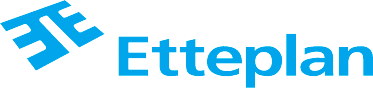
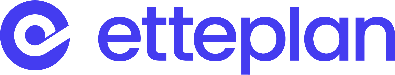
build

diff --git a/docs/service-worker.js b/docs/service-worker.js
@@ -1,1 +1,1 @@
-if(!self.define){let e,s={};const r=(r,i)=>(r=new URL(r+".js",i).href,s[r]||new Promise((s=>{if("document"in self){const e=document.createElement("script");e.src=r,e.onload=s,document.head.appendChild(e)}else e=r,importScripts(r),s()})).then((()=>{let e=s[r];if(!e)throw new Error(`Module ${r} didn’t register its module`);return e})));self.define=(i,n)=>{const o=e||("document"in self?document.currentScript.src:"")||location.href;if(s[o])return;let a={};const c=e=>r(e,o),f={module:{uri:o},exports:a,require:c};s[o]=Promise.all(i.map((e=>f[e]||c(e)))).then((e=>(n(...e),a)))}}define(["./workbox-db5fc017"],(function(e){"use strict";e.setCacheNameDetails({prefix:"robot-framework"}),self.addEventListener("message",(e=>{e.data&&"SKIP_WAITING"===e.data.type&&self.skipWaiting()})),e.precacheAndRoute([{url:"/404.html",revision:"f4e3edb53349945387e617abbd0fd231"},{url:"/CNAME",revision:"b9d1ce36b74077687fa96cd27a1498fa"},{url:"/code/hello-world/keywords.resource",revision:"6cfa3d85c9c3399ff28d5d16951e7a42"},{url:"/code/hello-world/test.robot",revision:"0c283be998710a0b4c72707af3f66bca"},{url:"/css/251.62c85cbe.css",revision:null},{url:"/css/591.17818f9b.css",revision:null},{url:"/css/706.56b2f530.css",revision:null},{url:"/css/app.0a54051d.css",revision:null},{url:"/editor.worker.js",revision:"c32a55f347a96275d8a6d9059c2795a7"},{url:"/example/example.robot",revision:"07d51baeb8298ae3bbe4968fe36bae50"},{url:"/example/log.html",revision:"8805923876cc017f9cdd63be6841955f"},{url:"/example/resource.robot",revision:"27b05d6207e9a2ebffecfc564ea1cbb4"},{url:"/fonts/CourierCode-Bold.5fb0947e.woff",revision:null},{url:"/fonts/CourierCode-Italic.3d7db8fe.woff",revision:null},{url:"/fonts/CourierCode-Roman.9e9c7312.woff",revision:null},{url:"/fonts/OCRA2.ea4aa5c0.woff",revision:null},{url:"/fonts/codicon.d1e7e26c.ttf",revision:null},{url:"/html.worker.js",revision:"b4c801e64dbad5482a140a91a963c0b1"},{url:"/img/Calendar.svg",revision:"8297cf2cf2a9fc56bd612112f636de30"},{url:"/img/Gmail.svg",revision:"9dbc79dab48422c821c75bbfc21165ec"},{url:"/img/RF-white.svg",revision:"5f61873d6ea9fe47b23c09528ee13efd"},{url:"/img/RF.svg",revision:"719774271ca4c3ae003b0d126dbe61b9"},{url:"/img/Slack.svg",revision:"f5fe2f626289d9e83ecc84a66537c631"},{url:"/img/TestCon-banner.png",revision:"35f368300314648d0cac13d302d76e90"},{url:"/img/carousel-company-icons/ABB.svg",revision:"660a75426749f1aeb4bae22bef2c4757"},{url:"/img/carousel-company-icons/Cisco.svg",revision:"6c68e1e0c5fa2dd9a55e77e5efd49382"},{url:"/img/carousel-company-icons/Condé_Nast.svg",revision:"e9bb142c55103dae3e4f2ea3eff28dca"},{url:"/img/carousel-company-icons/Finnair.svg",revision:"e76aacb26c092c3ed28d4b4da1df3448"},{url:"/img/carousel-company-icons/Juniper_Networks.svg",revision:"951b8992fdff194268841e73210ef775"},{url:"/img/carousel-company-icons/Kone.svg",revision:"7dcc5efb197b559a82ef1f7f6bdbef0f"},{url:"/img/carousel-company-icons/Naval_Research_Laboratory.svg",revision:"3b7e5ca1c422df2ad38698fb7fbcbf80"},{url:"/img/carousel-company-icons/Nokia.svg",revision:"f6bf0ff4f4a0afef6a189e6e312d2bf9"},{url:"/img/carousel-company-icons/Vero.svg",revision:"8fd65193ed5fc664766b4b16ed195e97"},{url:"/img/sponsors/abb.png",revision:"0a9db72ee03d319f6e142cfeface2fbd"},{url:"/img/sponsors/aktia.png",revision:"3514f30854191f82482b140c5f075537"},{url:"/img/sponsors/alten.png",revision:"0d5a572056f1b4f9cb4cf29c4f539402"},{url:"/img/sponsors/ams_osram.png",revision:"68bdbd1c0e7b4d8688bb5e922872daff"},{url:"/img/sponsors/arvanto.png",revision:"bf69b37f0e13603a0a35ef9253e17c78"},{url:"/img/sponsors/botlabs.png",revision:"e6ff1102d99f99b3fe44701b3228ab6a"},{url:"/img/sponsors/capgemini.png",revision:"be1579d0ace1098deca10d22477f5df3"},{url:"/img/sponsors/cgi.png",revision:"645e2435cd2154bec4fad0f2cc5ac920"},{url:"/img/sponsors/checkmk.png",revision:"991cab1fb8017421e0a019dd6a5ef039"},{url:"/img/sponsors/cisco.png",revision:"3be0556b34a86bca4a2d37c4736884c8"},{url:"/img/sponsors/comiq.png",revision:"4ab5b1a41fc91884d01f7702d95f92cf"},{url:"/img/sponsors/continero.png",revision:"ad8c2c6586a9128c770d9009c2313083"},{url:"/img/sponsors/dbchenker.png",revision:"e146b53f2a9d8675dc2d4ed21e21af44"},{url:"/img/sponsors/deutschepost.png",revision:"11cf74570cb294534dc73bb4d9428f9f"},{url:"/img/sponsors/digia.png",revision:"acda23bcffacb9c6aadb758823dfd55c"},{url:"/img/sponsors/eficode.png",revision:"cb10b02fa9b2892c65416b09801540fb"},{url:"/img/sponsors/eliga.png",revision:"7e7d036c80dfa8d0d3336e130081c320"},{url:"/img/sponsors/enqore.png",revision:"2c685f2188f4a5c139d89787831b6802"},{url:"/img/sponsors/etteplan.png",revision:"d92b7add2d4345949e8a99d4669aec2e"},{url:"/img/sponsors/eucon.png",revision:"40c2a827da86a4aafbb92f43f8479004"},{url:"/img/sponsors/f2g.png",revision:"33993bc8e3dfb46cbfc826531660039d"},{url:"/img/sponsors/fresenius.png",revision:"a80ff4f5b6e9c855a093e9bd05022596"},{url:"/img/sponsors/gofore.png",revision:"55d22cf97cf2e401aee9af1912188dd6"},{url:"/img/sponsors/henix.png",revision:"58bdc3de455c9f9681bb92e379573559"},{url:"/img/sponsors/humanitec.png",revision:"96c1313a7cba75e1c1f971ba7b310ffa"},{url:"/img/sponsors/imbus.png",revision:"19e2c27266d6b1e631bfd81e85e22706"},{url:"/img/sponsors/ing.png",revision:"2a65d57a9e55aa3efd450131b1f9257e"},{url:"/img/sponsors/knowit.png",revision:"f3b2290a3bc373037f4e92b57ee0f9fb"},{url:"/img/sponsors/kuka.png",revision:"dc8d03bf254829b89bb496d75335c049"},{url:"/img/sponsors/luoto.png",revision:"417736c6bd787b5d027f803304c040c6"},{url:"/img/sponsors/nets.png",revision:"427b91d9c9671b7d0c6f9d4408f9e78b"},{url:"/img/sponsors/nexi.png",revision:"4b4aebde4378be3fa9a8f78ff8ed1a5d"},{url:"/img/sponsors/nokia.png",revision:"d76cc3b486b15210dc3946982650619b"},{url:"/img/sponsors/nordea.png",revision:"de949e93e5e45f3d57a41b8976ff926b"},{url:"/img/sponsors/northcode.png",revision:"c6c07d650b12ebf20e81def92bff7e5f"},{url:"/img/sponsors/op.png",revision:"fd1caeb4e836c6619d207d2d6bcd39c4"},{url:"/img/sponsors/opuscapita.png",revision:"cf2c220b73c2b7351539bb420edc5212"},{url:"/img/sponsors/oura.png",revision:"68a837d2f4d6087491453ed1981c5d37"},{url:"/img/sponsors/posti.png",revision:"a6fa4fa9a9a78b5a3762f053a34d92f8"},{url:"/img/sponsors/prove.png",revision:"4dc6134102c19d4bc5ed9fdba7e99a00"},{url:"/img/sponsors/provinzial.png",revision:"626b27648b30c6abdc83702e63f887ab"},{url:"/img/sponsors/qentinel.png",revision:"8508ba8f3b93382dc3a215a78af94d25"},{url:"/img/sponsors/qfactory.png",revision:"2689e451486a32d337ac9d7849d0d88a"},{url:"/img/sponsors/qubilea.png",revision:"c935701b5f0b128379cce60eb45277f7"},{url:"/img/sponsors/reaktor.png",revision:"76d024a86c588f900414396b6dd7f632"},{url:"/img/sponsors/relex.png",revision:"ae61cc2b49ec0711fe0244c048313333"},{url:"/img/sponsors/robocorp.png",revision:"b7620c520b6e5998c11aefe584be7fbc"},{url:"/img/sponsors/rpamaker.png",revision:"ea33553faee89090d9063a40ed0025c5"},{url:"/img/sponsors/segron.png",revision:"c2e95d0ac2edc1df646c84efc0cb52d7"},{url:"/img/sponsors/seppmed.png",revision:"d9d29e5b63fb22d5f813fd7594fbbc7a"},{url:"/img/sponsors/signant.png",revision:"5bd7dbb03d17708e48876902147db1fb"},{url:"/img/sponsors/siili.png",revision:"8eb43b1e87cf29bca83c08f5fdeda825"},{url:"/img/sponsors/simplr.png",revision:"42cb39e2c740143eb668896b9c454aaa"},{url:"/img/sponsors/slsp.png",revision:"e330985e072738a7cf0d7513e6add29f"},{url:"/img/sponsors/smartdocs.png",revision:"a9b217da635c8cac709c9fabee3b13cc"},{url:"/img/sponsors/smartsynergies.png",revision:"45f6383db0a9adbda64e149769f1fea7"},{url:"/img/sponsors/symbio.png",revision:"5933162db8921dfe6a1ac908cf667930"},{url:"/img/sponsors/testimate.png",revision:"3d6e6244e513c5080b6c999a47a8571c"},{url:"/img/sponsors/tietoevry.png",revision:"17b01c8a2b4e4714c531b4fdcfc44744"},{url:"/img/sponsors/vala.png",revision:"f164dec9ef5d0c4a38e3980cd2ae5b25"},{url:"/img/sponsors/veikkaus.png",revision:"11c51d416f4935b2506de47076421432"},{url:"/img/users/TMAlogo.png",revision:"ab1c2ac61c147ec13366859ead20c80c"},{url:"/img/users/abb.png",revision:"30b9ae29fdb770386a10505c28ce1e5d"},{url:"/img/users/accruent.png",revision:"0c8cd2f7c7d13fc9c2722c210c6fd0a4"},{url:"/img/users/adwisit.png",revision:"1a937cd6845de281b5a2d8b52223e4e4"},{url:"/img/users/alfastrahovanie.png",revision:"d00d5e840793602dd02f72ba0e100f1e"},{url:"/img/users/alpha.png",revision:"851f771e4c3a08cb0ef23ef20bdbbf73"},{url:"/img/users/altran.png",revision:"eea588f1ec68c6e2b8a64e8ba9e9935a"},{url:"/img/users/axon.png",revision:"e66c5c895d2f9953def585e657095e9b"},{url:"/img/users/cenx.png",revision:"9b47df952bc8bef8e14aca838a6c2b4e"},{url:"/img/users/cisco.jpg",revision:"561a2eacde6cee827152b4d15de618be"},{url:"/img/users/condenast.png",revision:"f1eda50a24e2e0d9328375ab469b7429"},{url:"/img/users/etteplan.png",revision:"ae5842cf3b4b0523bf28b40e0fad03a2"},{url:"/img/users/ficosa.png",revision:"1093ebc1a633f9169f9a3df415a88745"},{url:"/img/users/finnair.png",revision:"799259a9c8a4dcfb58cfddcec256cd52"},{url:"/img/users/flipdish.png",revision:"9f3a1fa9fe4ee6a25ed44b61f26f1625"},{url:"/img/users/heymath.png",revision:"0e77772c90edcef853a45b051abca478"},{url:"/img/users/juniper.png",revision:"6aaaa24bdff78d3c51e1aad96e6046bc"},{url:"/img/users/kistler.svg",revision:"4dec06408ae185f309078cebab488cb7"},{url:"/img/users/kone.png",revision:"43e803812387d235a7d514962bbb1ba1"},{url:"/img/users/log.png",revision:"ab587a922b8bef36ba5b8b96c208edcc"},{url:"/img/users/lucid.png",revision:"e5a526690a06eb936b7f4c9a2a0ef4aa"},{url:"/img/users/medical_billing.png",revision:"df9801550c25fa48a25e7b8aa6bf21d8"},{url:"/img/users/metso.png",revision:"26c286c5193563c3ab4e4771e3468df3"},{url:"/img/users/mews.png",revision:"77f8ef7053bb63961a62ac5933f34b42"},{url:"/img/users/nokia.png",revision:"cb6a5a48e56fd3d02e5b06d6470d82d7"},{url:"/img/users/nrl.png",revision:"6b3bf8f89f1afead9999359659ebc18d"},{url:"/img/users/open_drives.png",revision:"1e538e1997870446989afa874dd8f5f5"},{url:"/img/users/opendaylight.png",revision:"31b609fd95098ff0b2d1e8732251b9a0"},{url:"/img/users/opuscapita.png",revision:"c74fa5ca276241fe4aac648c280702dd"},{url:"/img/users/oriental.png",revision:"373a479a28abea67c3d42785995c30e8"},{url:"/img/users/qahive.png",revision:"cab625b4ac80905e936501c167120f0d"},{url:"/img/users/rocla.png",revision:"c9afd34313e9547d204a221427f9d390"},{url:"/img/users/runwhen.png",revision:"43387346635124cb01b205c8de516cbe"},{url:"/img/users/ryerson.png",revision:"45a1c1546066749bb5102850c9d73cac"},{url:"/img/users/salicru.png",revision:"4b404a006a3c8aab8b0fe9a74b508d35"},{url:"/img/users/segron.png",revision:"7dbe39df5d78333785ec15e7b9f8f334"},{url:"/img/users/smartsynergies.png",revision:"45f6383db0a9adbda64e149769f1fea7"},{url:"/img/users/spectrum.png",revision:"8fc815d97406dad569842089b19718be"},{url:"/img/users/steeri.png",revision:"023acb9de5fccefde17a0734f8028848"},{url:"/img/users/tesena.png",revision:"93750eec16f7fe7af8e117f85992868c"},{url:"/img/users/testmo.png",revision:"c214b4f266c1c0a6003ad6b5090aff7c"},{url:"/img/users/tmu_logo.png",revision:"a7897d08f5b77dcaefe64c18bbdcd054"},{url:"/img/users/vero.png",revision:"f33a2db0ec1e1eb28cf4e5528e379855"},{url:"/img/users/zilogic.png",revision:"aab2dc63e9d21482c592885e457fa661"},{url:"/img/users/zymr.png",revision:"ea8d35aa7923bd438a426cfe36898768"},{url:"/index.html",revision:"91477a53d06a3d52566a56b97d54d331"},{url:"/js/111.d9da61a3.js",revision:null},{url:"/js/251.fadca85d.js",revision:null},{url:"/js/271.ab8f272a.js",revision:null},{url:"/js/341.41664356.js",revision:null},{url:"/js/48.4685ce6d.js",revision:null},{url:"/js/527.8b363274.js",revision:null},{url:"/js/598.23ac0c5a.js",revision:null},{url:"/js/706.e776abfa.js",revision:null},{url:"/js/786.0ef1748b.js",revision:null},{url:"/js/877.d0105946.js",revision:null},{url:"/js/954.c624148c.js",revision:null},{url:"/js/962.15f5025a.js",revision:null},{url:"/js/app.10f79f1d.js",revision:null},{url:"/js/chunk-vendors.f9c92b56.js",revision:null},{url:"/json.worker.js",revision:"05d8b81fd1169400d26f6edc947df6b4"},{url:"/livedata/milestones.js",revision:"3e4f97afe866dbc61b23cb935ff4bf15"},{url:"/livedata/stars.js",revision:"1a7aac00ca8c09c379825ce59f574a37"},{url:"/manifest.json",revision:"a0ca7123d147fae4ec52a28fd583347f"},{url:"/pyworker/py_worker.js",revision:"f1021bc5cda5ddd70a667e7a7105602c"},{url:"/pyworker/runRobot.py",revision:"65923f88aeaf43f936179491c71e6fce"},{url:"/robot-framework-open-space.ics",revision:"086a76b11f1997cdce31cdb5d5cf262d"},{url:"/robots.txt",revision:"b6216d61c03e6ce0c9aea6ca7808f7ca"}],{})}));
+if(!self.define){let e,s={};const r=(r,i)=>(r=new URL(r+".js",i).href,s[r]||new Promise((s=>{if("document"in self){const e=document.createElement("script");e.src=r,e.onload=s,document.head.appendChild(e)}else e=r,importScripts(r),s()})).then((()=>{let e=s[r];if(!e)throw new Error(`Module ${r} didn’t register its module`);return e})));self.define=(i,n)=>{const o=e||("document"in self?document.currentScript.src:"")||location.href;if(s[o])return;let a={};const c=e=>r(e,o),f={module:{uri:o},exports:a,require:c};s[o]=Promise.all(i.map((e=>f[e]||c(e)))).then((e=>(n(...e),a)))}}define(["./workbox-db5fc017"],(function(e){"use strict";e.setCacheNameDetails({prefix:"robot-framework"}),self.addEventListener("message",(e=>{e.data&&"SKIP_WAITING"===e.data.type&&self.skipWaiting()})),e.precacheAndRoute([{url:"/404.html",revision:"f4e3edb53349945387e617abbd0fd231"},{url:"/CNAME",revision:"b9d1ce36b74077687fa96cd27a1498fa"},{url:"/code/hello-world/keywords.resource",revision:"6cfa3d85c9c3399ff28d5d16951e7a42"},{url:"/code/hello-world/test.robot",revision:"0c283be998710a0b4c72707af3f66bca"},{url:"/css/251.62c85cbe.css",revision:null},{url:"/css/591.17818f9b.css",revision:null},{url:"/css/706.56b2f530.css",revision:null},{url:"/css/app.0a54051d.css",revision:null},{url:"/editor.worker.js",revision:"c32a55f347a96275d8a6d9059c2795a7"},{url:"/example/example.robot",revision:"07d51baeb8298ae3bbe4968fe36bae50"},{url:"/example/log.html",revision:"8805923876cc017f9cdd63be6841955f"},{url:"/example/resource.robot",revision:"27b05d6207e9a2ebffecfc564ea1cbb4"},{url:"/fonts/CourierCode-Bold.5fb0947e.woff",revision:null},{url:"/fonts/CourierCode-Italic.3d7db8fe.woff",revision:null},{url:"/fonts/CourierCode-Roman.9e9c7312.woff",revision:null},{url:"/fonts/OCRA2.ea4aa5c0.woff",revision:null},{url:"/fonts/codicon.d1e7e26c.ttf",revision:null},{url:"/html.worker.js",revision:"b4c801e64dbad5482a140a91a963c0b1"},{url:"/img/Calendar.svg",revision:"8297cf2cf2a9fc56bd612112f636de30"},{url:"/img/Gmail.svg",revision:"9dbc79dab48422c821c75bbfc21165ec"},{url:"/img/RF-white.svg",revision:"5f61873d6ea9fe47b23c09528ee13efd"},{url:"/img/RF.svg",revision:"719774271ca4c3ae003b0d126dbe61b9"},{url:"/img/Slack.svg",revision:"f5fe2f626289d9e83ecc84a66537c631"},{url:"/img/TestCon-banner.png",revision:"35f368300314648d0cac13d302d76e90"},{url:"/img/carousel-company-icons/ABB.svg",revision:"660a75426749f1aeb4bae22bef2c4757"},{url:"/img/carousel-company-icons/Cisco.svg",revision:"6c68e1e0c5fa2dd9a55e77e5efd49382"},{url:"/img/carousel-company-icons/Condé_Nast.svg",revision:"e9bb142c55103dae3e4f2ea3eff28dca"},{url:"/img/carousel-company-icons/Finnair.svg",revision:"e76aacb26c092c3ed28d4b4da1df3448"},{url:"/img/carousel-company-icons/Juniper_Networks.svg",revision:"951b8992fdff194268841e73210ef775"},{url:"/img/carousel-company-icons/Kone.svg",revision:"7dcc5efb197b559a82ef1f7f6bdbef0f"},{url:"/img/carousel-company-icons/Naval_Research_Laboratory.svg",revision:"3b7e5ca1c422df2ad38698fb7fbcbf80"},{url:"/img/carousel-company-icons/Nokia.svg",revision:"f6bf0ff4f4a0afef6a189e6e312d2bf9"},{url:"/img/carousel-company-icons/Vero.svg",revision:"8fd65193ed5fc664766b4b16ed195e97"},{url:"/img/sponsors/abb.png",revision:"0a9db72ee03d319f6e142cfeface2fbd"},{url:"/img/sponsors/aktia.png",revision:"3514f30854191f82482b140c5f075537"},{url:"/img/sponsors/alten.png",revision:"0d5a572056f1b4f9cb4cf29c4f539402"},{url:"/img/sponsors/ams_osram.png",revision:"68bdbd1c0e7b4d8688bb5e922872daff"},{url:"/img/sponsors/arvanto.png",revision:"bf69b37f0e13603a0a35ef9253e17c78"},{url:"/img/sponsors/botlabs.png",revision:"e6ff1102d99f99b3fe44701b3228ab6a"},{url:"/img/sponsors/capgemini.png",revision:"be1579d0ace1098deca10d22477f5df3"},{url:"/img/sponsors/cgi.png",revision:"645e2435cd2154bec4fad0f2cc5ac920"},{url:"/img/sponsors/checkmk.png",revision:"991cab1fb8017421e0a019dd6a5ef039"},{url:"/img/sponsors/cisco.png",revision:"3be0556b34a86bca4a2d37c4736884c8"},{url:"/img/sponsors/comiq.png",revision:"4ab5b1a41fc91884d01f7702d95f92cf"},{url:"/img/sponsors/continero.png",revision:"ad8c2c6586a9128c770d9009c2313083"},{url:"/img/sponsors/dbchenker.png",revision:"e146b53f2a9d8675dc2d4ed21e21af44"},{url:"/img/sponsors/deutschepost.png",revision:"11cf74570cb294534dc73bb4d9428f9f"},{url:"/img/sponsors/digia.png",revision:"acda23bcffacb9c6aadb758823dfd55c"},{url:"/img/sponsors/eficode.png",revision:"cb10b02fa9b2892c65416b09801540fb"},{url:"/img/sponsors/eliga.png",revision:"7e7d036c80dfa8d0d3336e130081c320"},{url:"/img/sponsors/enqore.png",revision:"2c685f2188f4a5c139d89787831b6802"},{url:"/img/sponsors/etteplan.png",revision:"f6a13da34c64233285c951a081210cb5"},{url:"/img/sponsors/eucon.png",revision:"40c2a827da86a4aafbb92f43f8479004"},{url:"/img/sponsors/f2g.png",revision:"33993bc8e3dfb46cbfc826531660039d"},{url:"/img/sponsors/fresenius.png",revision:"a80ff4f5b6e9c855a093e9bd05022596"},{url:"/img/sponsors/gofore.png",revision:"55d22cf97cf2e401aee9af1912188dd6"},{url:"/img/sponsors/henix.png",revision:"58bdc3de455c9f9681bb92e379573559"},{url:"/img/sponsors/humanitec.png",revision:"96c1313a7cba75e1c1f971ba7b310ffa"},{url:"/img/sponsors/imbus.png",revision:"19e2c27266d6b1e631bfd81e85e22706"},{url:"/img/sponsors/ing.png",revision:"2a65d57a9e55aa3efd450131b1f9257e"},{url:"/img/sponsors/knowit.png",revision:"f3b2290a3bc373037f4e92b57ee0f9fb"},{url:"/img/sponsors/kuka.png",revision:"dc8d03bf254829b89bb496d75335c049"},{url:"/img/sponsors/luoto.png",revision:"417736c6bd787b5d027f803304c040c6"},{url:"/img/sponsors/nets.png",revision:"427b91d9c9671b7d0c6f9d4408f9e78b"},{url:"/img/sponsors/nexi.png",revision:"4b4aebde4378be3fa9a8f78ff8ed1a5d"},{url:"/img/sponsors/nokia.png",revision:"d76cc3b486b15210dc3946982650619b"},{url:"/img/sponsors/nordea.png",revision:"de949e93e5e45f3d57a41b8976ff926b"},{url:"/img/sponsors/northcode.png",revision:"c6c07d650b12ebf20e81def92bff7e5f"},{url:"/img/sponsors/op.png",revision:"fd1caeb4e836c6619d207d2d6bcd39c4"},{url:"/img/sponsors/opuscapita.png",revision:"cf2c220b73c2b7351539bb420edc5212"},{url:"/img/sponsors/oura.png",revision:"68a837d2f4d6087491453ed1981c5d37"},{url:"/img/sponsors/posti.png",revision:"a6fa4fa9a9a78b5a3762f053a34d92f8"},{url:"/img/sponsors/prove.png",revision:"4dc6134102c19d4bc5ed9fdba7e99a00"},{url:"/img/sponsors/provinzial.png",revision:"626b27648b30c6abdc83702e63f887ab"},{url:"/img/sponsors/qentinel.png",revision:"8508ba8f3b93382dc3a215a78af94d25"},{url:"/img/sponsors/qfactory.png",revision:"2689e451486a32d337ac9d7849d0d88a"},{url:"/img/sponsors/qubilea.png",revision:"c935701b5f0b128379cce60eb45277f7"},{url:"/img/sponsors/reaktor.png",revision:"76d024a86c588f900414396b6dd7f632"},{url:"/img/sponsors/relex.png",revision:"ae61cc2b49ec0711fe0244c048313333"},{url:"/img/sponsors/robocorp.png",revision:"b7620c520b6e5998c11aefe584be7fbc"},{url:"/img/sponsors/rpamaker.png",revision:"ea33553faee89090d9063a40ed0025c5"},{url:"/img/sponsors/segron.png",revision:"c2e95d0ac2edc1df646c84efc0cb52d7"},{url:"/img/sponsors/seppmed.png",revision:"d9d29e5b63fb22d5f813fd7594fbbc7a"},{url:"/img/sponsors/signant.png",revision:"5bd7dbb03d17708e48876902147db1fb"},{url:"/img/sponsors/siili.png",revision:"8eb43b1e87cf29bca83c08f5fdeda825"},{url:"/img/sponsors/simplr.png",revision:"42cb39e2c740143eb668896b9c454aaa"},{url:"/img/sponsors/slsp.png",revision:"e330985e072738a7cf0d7513e6add29f"},{url:"/img/sponsors/smartdocs.png",revision:"a9b217da635c8cac709c9fabee3b13cc"},{url:"/img/sponsors/smartsynergies.png",revision:"45f6383db0a9adbda64e149769f1fea7"},{url:"/img/sponsors/symbio.png",revision:"5933162db8921dfe6a1ac908cf667930"},{url:"/img/sponsors/testimate.png",revision:"3d6e6244e513c5080b6c999a47a8571c"},{url:"/img/sponsors/tietoevry.png",revision:"17b01c8a2b4e4714c531b4fdcfc44744"},{url:"/img/sponsors/vala.png",revision:"f164dec9ef5d0c4a38e3980cd2ae5b25"},{url:"/img/sponsors/veikkaus.png",revision:"11c51d416f4935b2506de47076421432"},{url:"/img/users/TMAlogo.png",revision:"ab1c2ac61c147ec13366859ead20c80c"},{url:"/img/users/abb.png",revision:"30b9ae29fdb770386a10505c28ce1e5d"},{url:"/img/users/accruent.png",revision:"0c8cd2f7c7d13fc9c2722c210c6fd0a4"},{url:"/img/users/adwisit.png",revision:"1a937cd6845de281b5a2d8b52223e4e4"},{url:"/img/users/alfastrahovanie.png",revision:"d00d5e840793602dd02f72ba0e100f1e"},{url:"/img/users/alpha.png",revision:"851f771e4c3a08cb0ef23ef20bdbbf73"},{url:"/img/users/altran.png",revision:"eea588f1ec68c6e2b8a64e8ba9e9935a"},{url:"/img/users/axon.png",revision:"e66c5c895d2f9953def585e657095e9b"},{url:"/img/users/cenx.png",revision:"9b47df952bc8bef8e14aca838a6c2b4e"},{url:"/img/users/cisco.jpg",revision:"561a2eacde6cee827152b4d15de618be"},{url:"/img/users/condenast.png",revision:"f1eda50a24e2e0d9328375ab469b7429"},{url:"/img/users/etteplan.png",revision:"ae5842cf3b4b0523bf28b40e0fad03a2"},{url:"/img/users/ficosa.png",revision:"1093ebc1a633f9169f9a3df415a88745"},{url:"/img/users/finnair.png",revision:"799259a9c8a4dcfb58cfddcec256cd52"},{url:"/img/users/flipdish.png",revision:"9f3a1fa9fe4ee6a25ed44b61f26f1625"},{url:"/img/users/heymath.png",revision:"0e77772c90edcef853a45b051abca478"},{url:"/img/users/juniper.png",revision:"6aaaa24bdff78d3c51e1aad96e6046bc"},{url:"/img/users/kistler.svg",revision:"4dec06408ae185f309078cebab488cb7"},{url:"/img/users/kone.png",revision:"43e803812387d235a7d514962bbb1ba1"},{url:"/img/users/log.png",revision:"ab587a922b8bef36ba5b8b96c208edcc"},{url:"/img/users/lucid.png",revision:"e5a526690a06eb936b7f4c9a2a0ef4aa"},{url:"/img/users/medical_billing.png",revision:"df9801550c25fa48a25e7b8aa6bf21d8"},{url:"/img/users/metso.png",revision:"26c286c5193563c3ab4e4771e3468df3"},{url:"/img/users/mews.png",revision:"77f8ef7053bb63961a62ac5933f34b42"},{url:"/img/users/nokia.png",revision:"cb6a5a48e56fd3d02e5b06d6470d82d7"},{url:"/img/users/nrl.png",revision:"6b3bf8f89f1afead9999359659ebc18d"},{url:"/img/users/open_drives.png",revision:"1e538e1997870446989afa874dd8f5f5"},{url:"/img/users/opendaylight.png",revision:"31b609fd95098ff0b2d1e8732251b9a0"},{url:"/img/users/opuscapita.png",revision:"c74fa5ca276241fe4aac648c280702dd"},{url:"/img/users/oriental.png",revision:"373a479a28abea67c3d42785995c30e8"},{url:"/img/users/qahive.png",revision:"cab625b4ac80905e936501c167120f0d"},{url:"/img/users/rocla.png",revision:"c9afd34313e9547d204a221427f9d390"},{url:"/img/users/runwhen.png",revision:"43387346635124cb01b205c8de516cbe"},{url:"/img/users/ryerson.png",revision:"45a1c1546066749bb5102850c9d73cac"},{url:"/img/users/salicru.png",revision:"4b404a006a3c8aab8b0fe9a74b508d35"},{url:"/img/users/segron.png",revision:"7dbe39df5d78333785ec15e7b9f8f334"},{url:"/img/users/smartsynergies.png",revision:"45f6383db0a9adbda64e149769f1fea7"},{url:"/img/users/spectrum.png",revision:"8fc815d97406dad569842089b19718be"},{url:"/img/users/steeri.png",revision:"023acb9de5fccefde17a0734f8028848"},{url:"/img/users/tesena.png",revision:"93750eec16f7fe7af8e117f85992868c"},{url:"/img/users/testmo.png",revision:"c214b4f266c1c0a6003ad6b5090aff7c"},{url:"/img/users/tmu_logo.png",revision:"a7897d08f5b77dcaefe64c18bbdcd054"},{url:"/img/users/vero.png",revision:"f33a2db0ec1e1eb28cf4e5528e379855"},{url:"/img/users/zilogic.png",revision:"aab2dc63e9d21482c592885e457fa661"},{url:"/img/users/zymr.png",revision:"ea8d35aa7923bd438a426cfe36898768"},{url:"/index.html",revision:"91477a53d06a3d52566a56b97d54d331"},{url:"/js/111.d9da61a3.js",revision:null},{url:"/js/251.fadca85d.js",revision:null},{url:"/js/271.ab8f272a.js",revision:null},{url:"/js/341.41664356.js",revision:null},{url:"/js/48.4685ce6d.js",revision:null},{url:"/js/527.8b363274.js",revision:null},{url:"/js/598.23ac0c5a.js",revision:null},{url:"/js/706.e776abfa.js",revision:null},{url:"/js/786.0ef1748b.js",revision:null},{url:"/js/877.d0105946.js",revision:null},{url:"/js/954.c624148c.js",revision:null},{url:"/js/962.15f5025a.js",revision:null},{url:"/js/app.10f79f1d.js",revision:null},{url:"/js/chunk-vendors.f9c92b56.js",revision:null},{url:"/json.worker.js",revision:"05d8b81fd1169400d26f6edc947df6b4"},{url:"/livedata/milestones.js",revision:"3e4f97afe866dbc61b23cb935ff4bf15"},{url:"/livedata/stars.js",revision:"1a7aac00ca8c09c379825ce59f574a37"},{url:"/manifest.json",revision:"a0ca7123d147fae4ec52a28fd583347f"},{url:"/pyworker/py_worker.js",revision:"f1021bc5cda5ddd70a667e7a7105602c"},{url:"/pyworker/runRobot.py",revision:"65923f88aeaf43f936179491c71e6fce"},{url:"/robot-framework-open-space.ics",revision:"086a76b11f1997cdce31cdb5d5cf262d"},{url:"/robots.txt",revision:"b6216d61c03e6ce0c9aea6ca7808f7ca"}],{})}));
